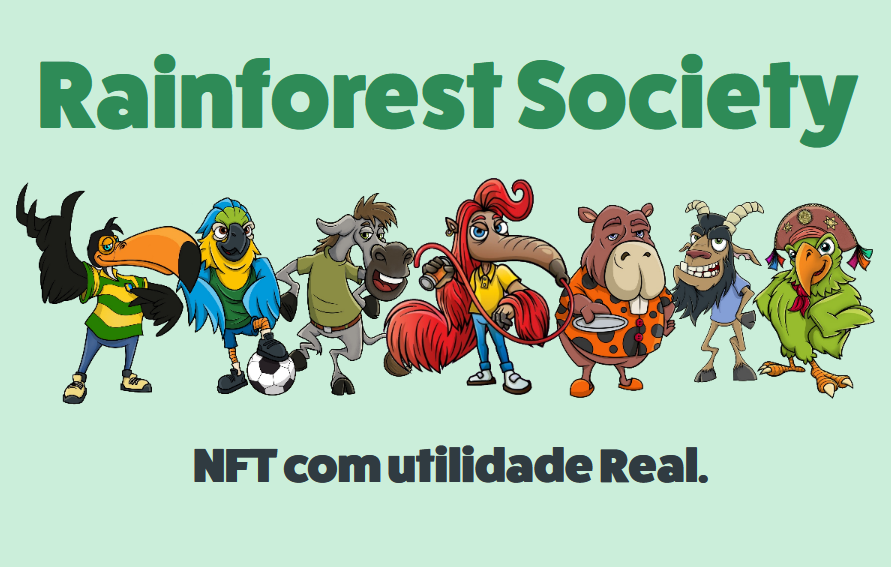
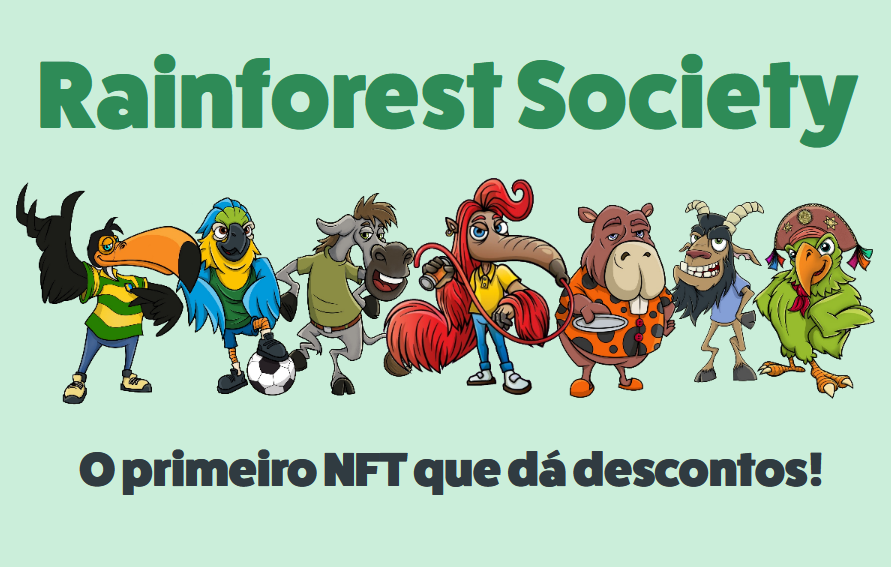
update slogan

Changed region(s): [[0.0909, 0.7795, 0.9394, 0.8695]]

diff --git a/src/components/Header.js b/src/components/Header.js
@@ -7,7 +7,7 @@ export default class Header extends Component {
          <div>
             <Head>
             <title>{this.props.title}</title>
-            <meta name="description" content="NFT Com Utilidade Real"/>
+            <meta name="description" content="O primeiro NFT que dá descontos"/>
             <meta name="viewport" content="width=device-width"/>
             <meta charset="utf-8"/>
             <link rel="icon" href="favicon/favicon.ico" />
@@ -19,7 +19,7 @@ export default class Header extends Component {
             <meta name="twitter:site" content="@rafosociety"/>
             <meta name="twitter:creator" content="@rafosociety"/>
             <meta property="og:title" content="Rainforest Society"/>
-            <meta property="og:description" content="NFT Com Utilidade Real - Estamos Fechando Parcerias Até Abril 2022. Cadastre Seu Produdo Ou Serviço GRATIS!"/>
+            <meta property="og:description" content="O primeiro NFT que dá descontos! - Cadastre Seu Produdo Ou Serviço GRATIS!"/>
             <meta property="og:image" content="https://rafosociety.vercel.app/images/IF_open-graph.png"/>
             </Head>
          </div>

diff --git a/pages/index.js b/pages/index.js
@@ -47,7 +47,7 @@ function Home() {
                   <div class="h-2"></div>
 
                   {/* # DESCRICÃO */}
-                  <h2 class="text-3xl font-bold md:text-5xl leading-solid text-sea-700">NFT com utilidade Real.<br/>Aceitando parcerias até Abril 2022.</h2>
+                  <h2 class="text-3xl font-bold md:text-5xl leading-solid text-sea-700">O primeiro NFT que dá descontos!<br/>Aceitando parcerias até Abril 2022.</h2>
                   <p class="tracking-wider text-green-200">Cadastre seu produto ou serviço GRATIS!</p>
                      
                   {/* # CONTAINER BOTÕES    */}
